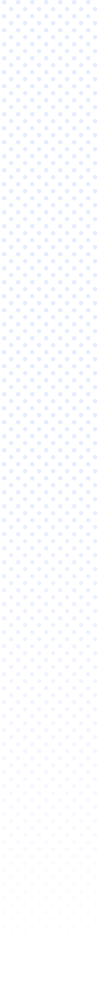
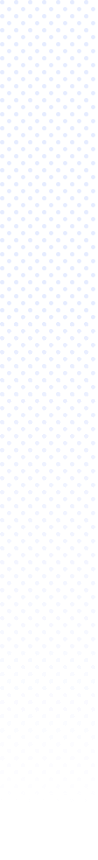
WEB-105 Design cleanup and tweaks

diff --git a/src/app/main/main-search.scss b/src/app/main/main-search.scss
@@ -4,6 +4,26 @@
 
   &.search-is-empty {
     background: $blue-background;
+    &.footer-context {
+      padding-bottom: 10%;
+    }
+  }
+
+  &.footer-context {
+    padding-bottom: 40%;
+    @include breakpoint(small down) {
+      padding-bottom: 100%;
+    }
+    @include breakpoint(large up) {
+      padding-bottom: 30%;
+    }
+  }
+
+  .call-to-action {
+    position: absolute;
+    bottom: 0;
+    margin-bottom: 9%;
+    width: 100%;
   }
 
   .search-header {
@@ -63,10 +83,10 @@
   .results-area {
     padding-top: 4em;
     padding-bottom: 4em;
-    background: $blue-background;
+    background: white;
     background-image: url('../assets/images/dot-pattern-fade.png');
     background-repeat: repeat-x;
-    background-size:  50px 500px;
+    background-size: 49px 430px;
 
     .conversation {
       .message.direction_out {

diff --git a/src/app/main/main.scss b/src/app/main/main.scss
@@ -57,7 +57,7 @@
 
       background-image: url('../assets/images/dot-pattern-fade.png');
       background-repeat: repeat-x;
-      background-size:  50px 500px;
+      background-size:  49px 430px;
 
       h1 {
         display: block;
@@ -87,12 +87,12 @@
 
           h3 {
             font-size: 18px;
-            line-height: 24px;            
+            line-height: 24px;
           }
 
           h4 {
             font-size: 14px;
-            line-height: 20px;            
+            line-height: 20px;
           }
         }
 
@@ -217,7 +217,7 @@
       padding: 4em 0 2em;
       background-image: url('../assets/images/dot-pattern-fade.png');
       background-repeat: repeat-x;
-      background-size:  50px 500px;
+      background-size: 49px 430px;
 
       h3 {
         margin-bottom: 1em;

diff --git a/src/app/info/info.scss b/src/app/info/info.scss
@@ -32,8 +32,11 @@
 
     /* Any page that is text heavy, such as About or Privacy */
     .page-info {
-      padding-top: $header-height;
+      padding-top: $header-height + 90px;
       min-height: 100vh;
+      background-image: url('../assets/images/dot-pattern-fade.png');
+      background-repeat: repeat-x;
+      background-size:  49px 430px;
 
       h1 {
         margin: 0;
@@ -47,6 +50,7 @@
         margin-bottom: 30px;
         line-height: 1.2;
         @include sans-serif;
+        font-weight: bold;
         color: $accent-color;
       }
 

diff --git a/src/app/main/main-conversation.scss b/src/app/main/main-conversation.scss
@@ -11,7 +11,7 @@
   .conversation-row {
     background-image: url('../assets/images/dot-pattern-fade.png');
     background-repeat: repeat-x;
-    background-size:  50px 500px;    
+    background-size:  49px 430px;
   }
 
   .conversation {
